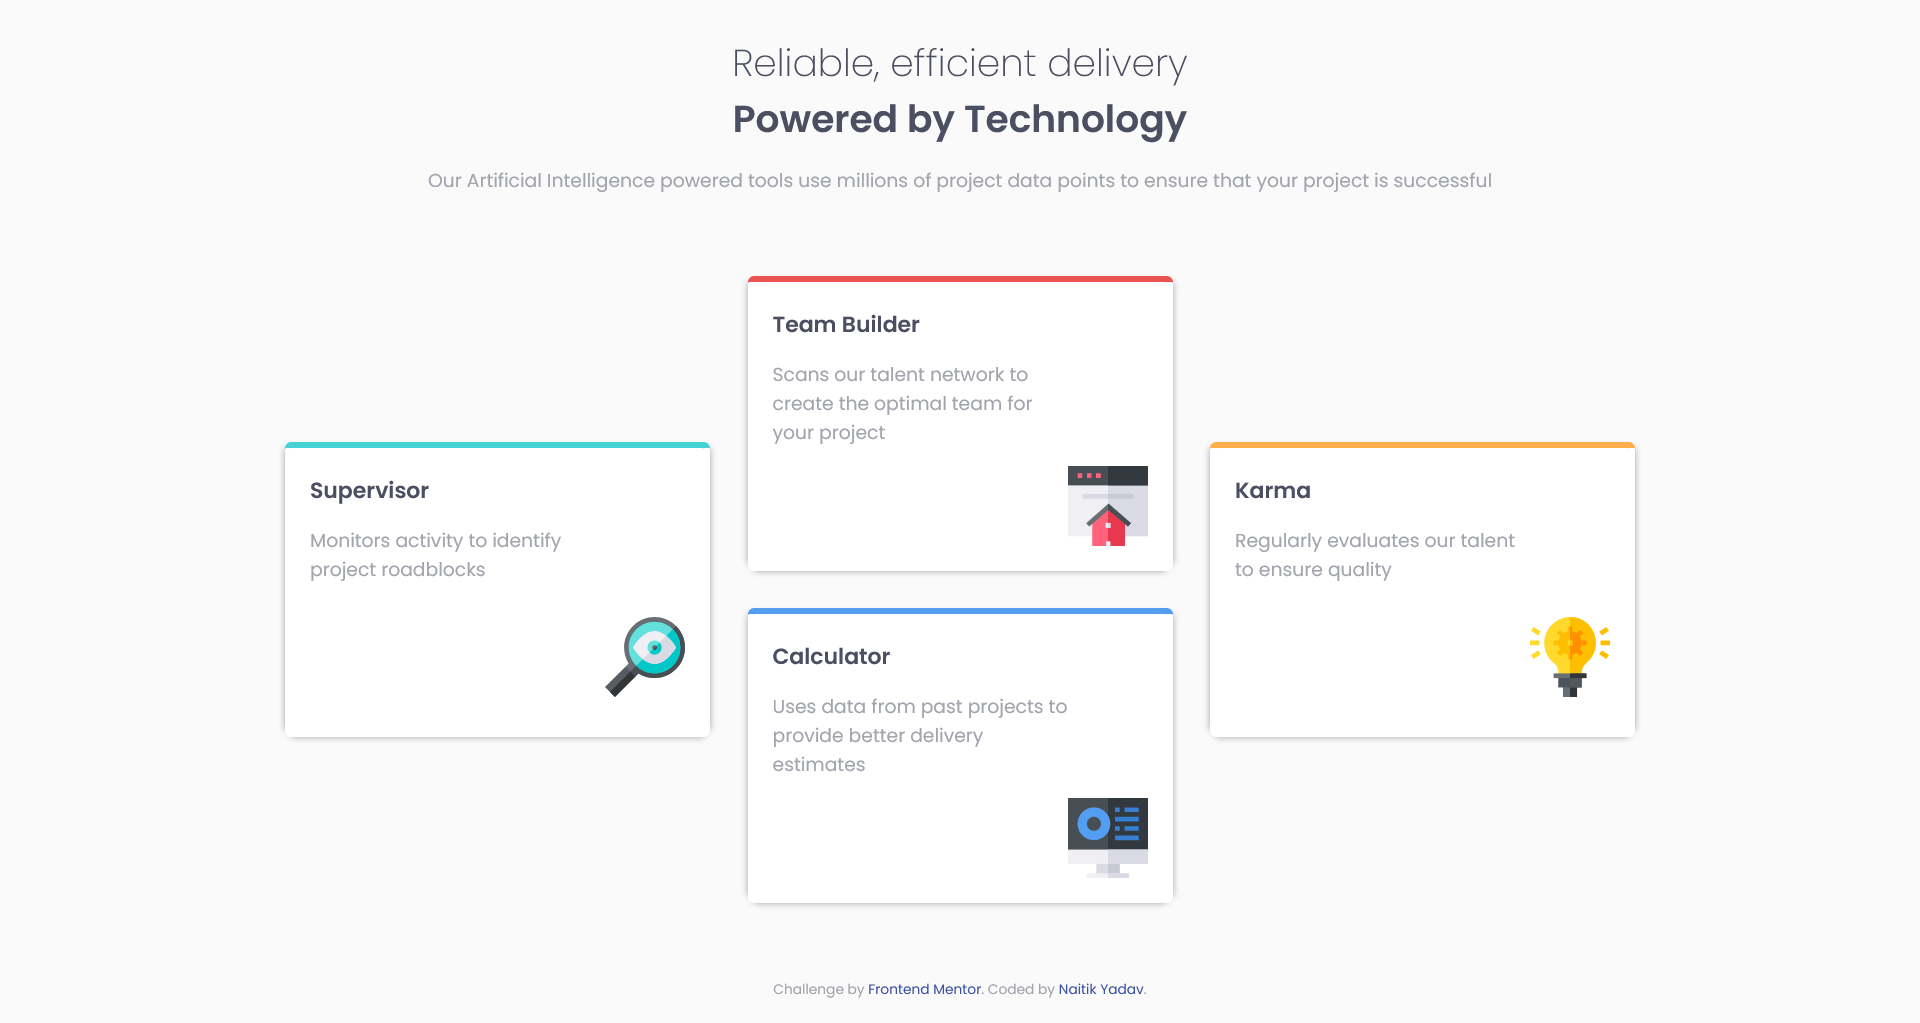
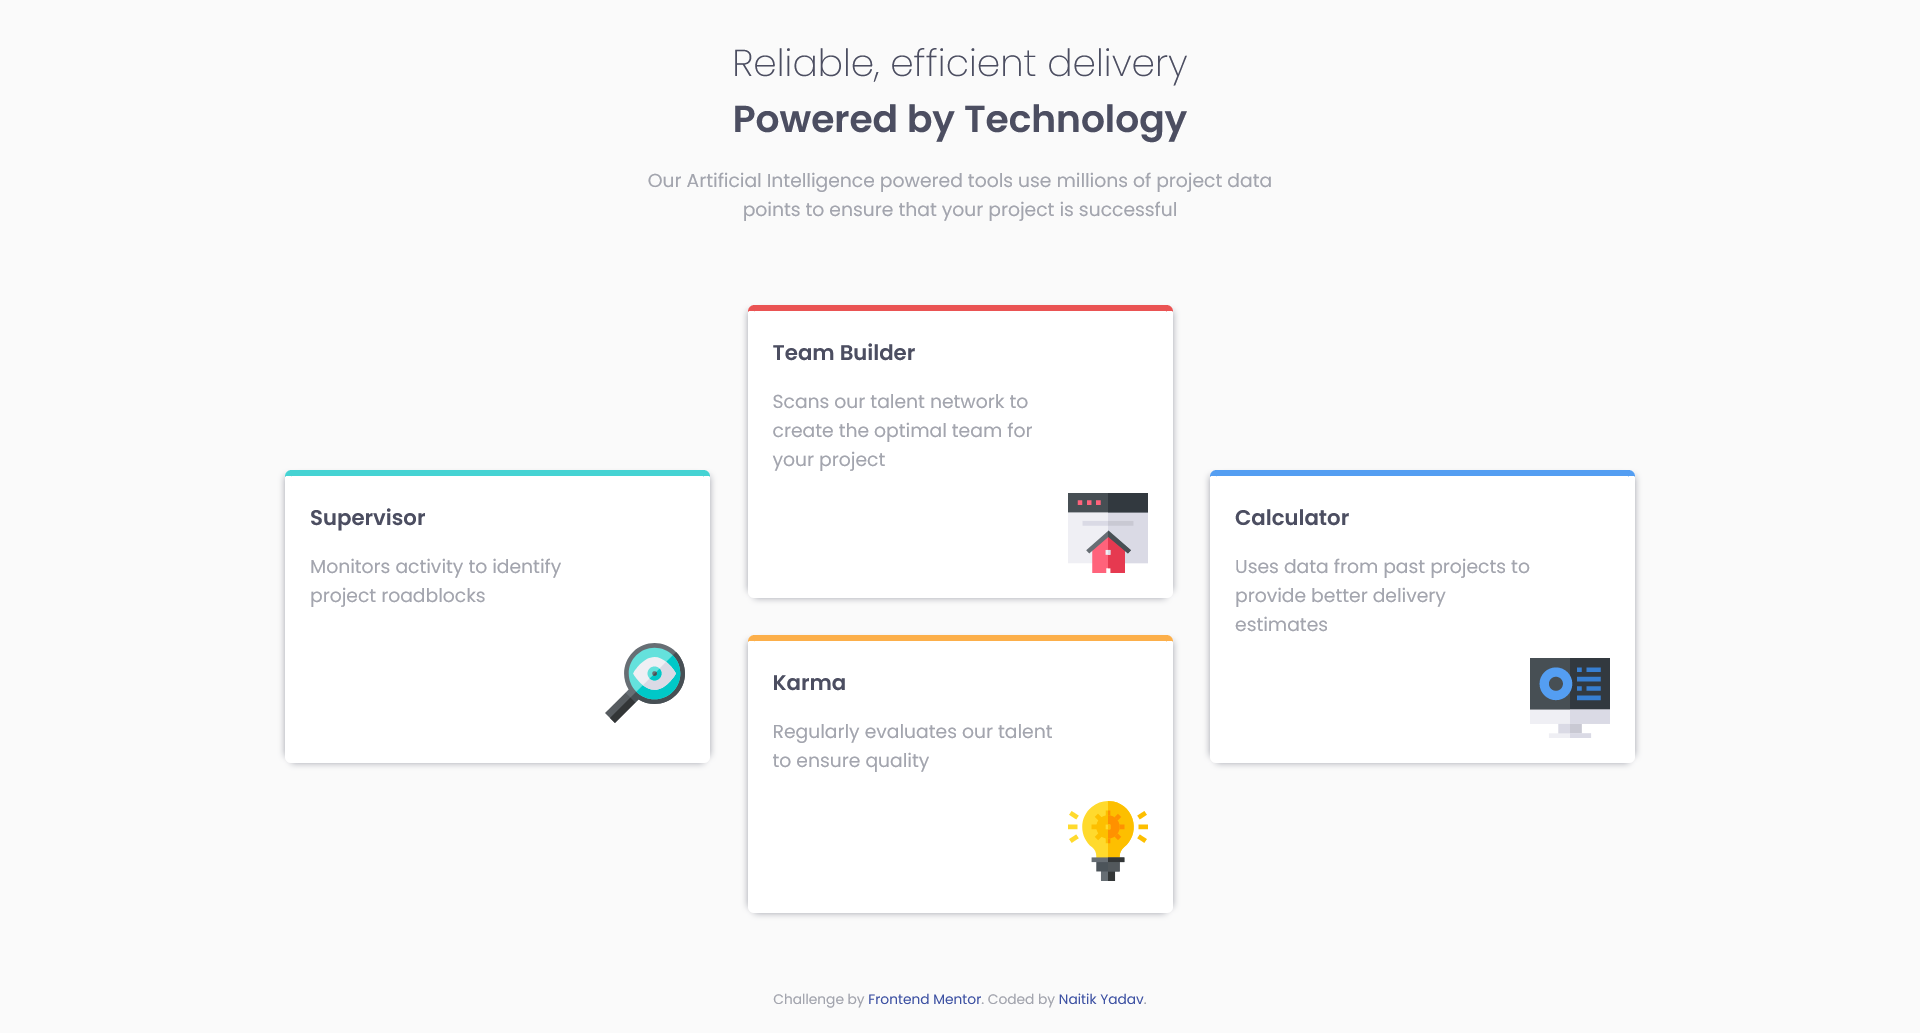
Fix grid layout

diff --git a/styles.css b/styles.css
@@ -53,9 +53,9 @@ h2 {
   .card-grid {
     grid-template-areas:
       ". two ."
-      "one two three"
-      "one four three"
-      ". four .";
+      "one two four"
+      "one three four"
+      ". three .";
   }
 }
 

diff --git a/README.md b/README.md
@@ -49,9 +49,9 @@ This project enabled me to play around with grid template areas a little more an
 .card-grid {
   grid-template-areas:
     ". two ."
-    "one two three"
-    "one four three"
-    ". four .";
+    "one two four"
+    "one three four"
+    ". three .";
 }
 ```
 
